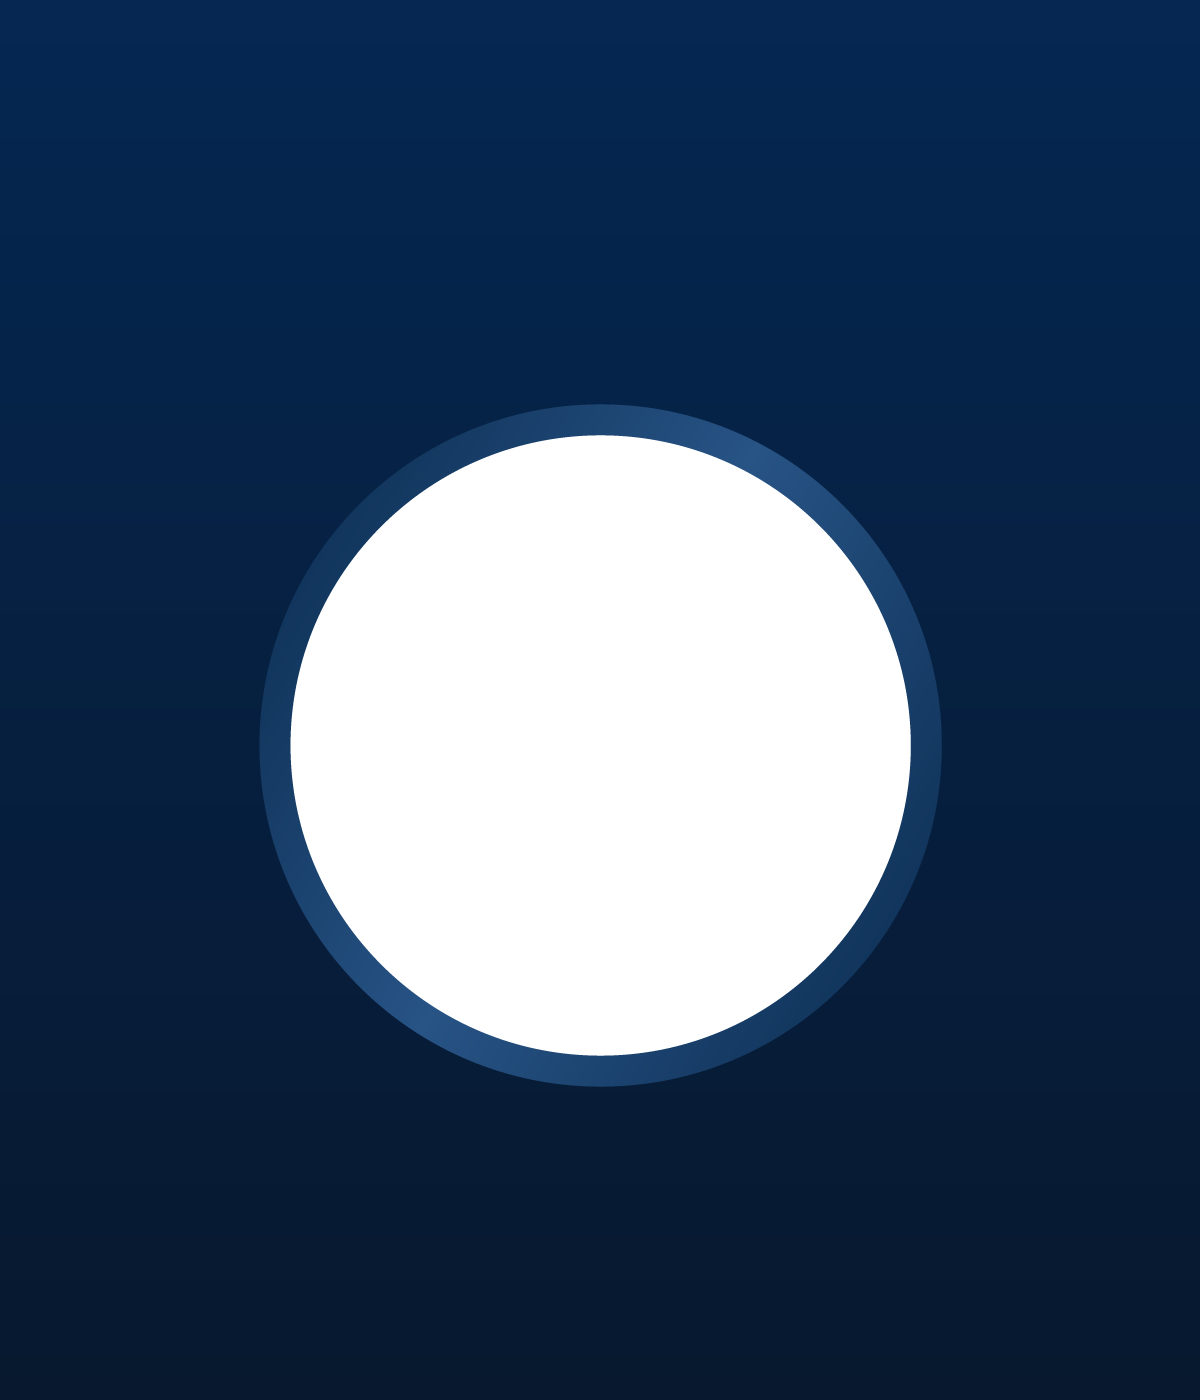
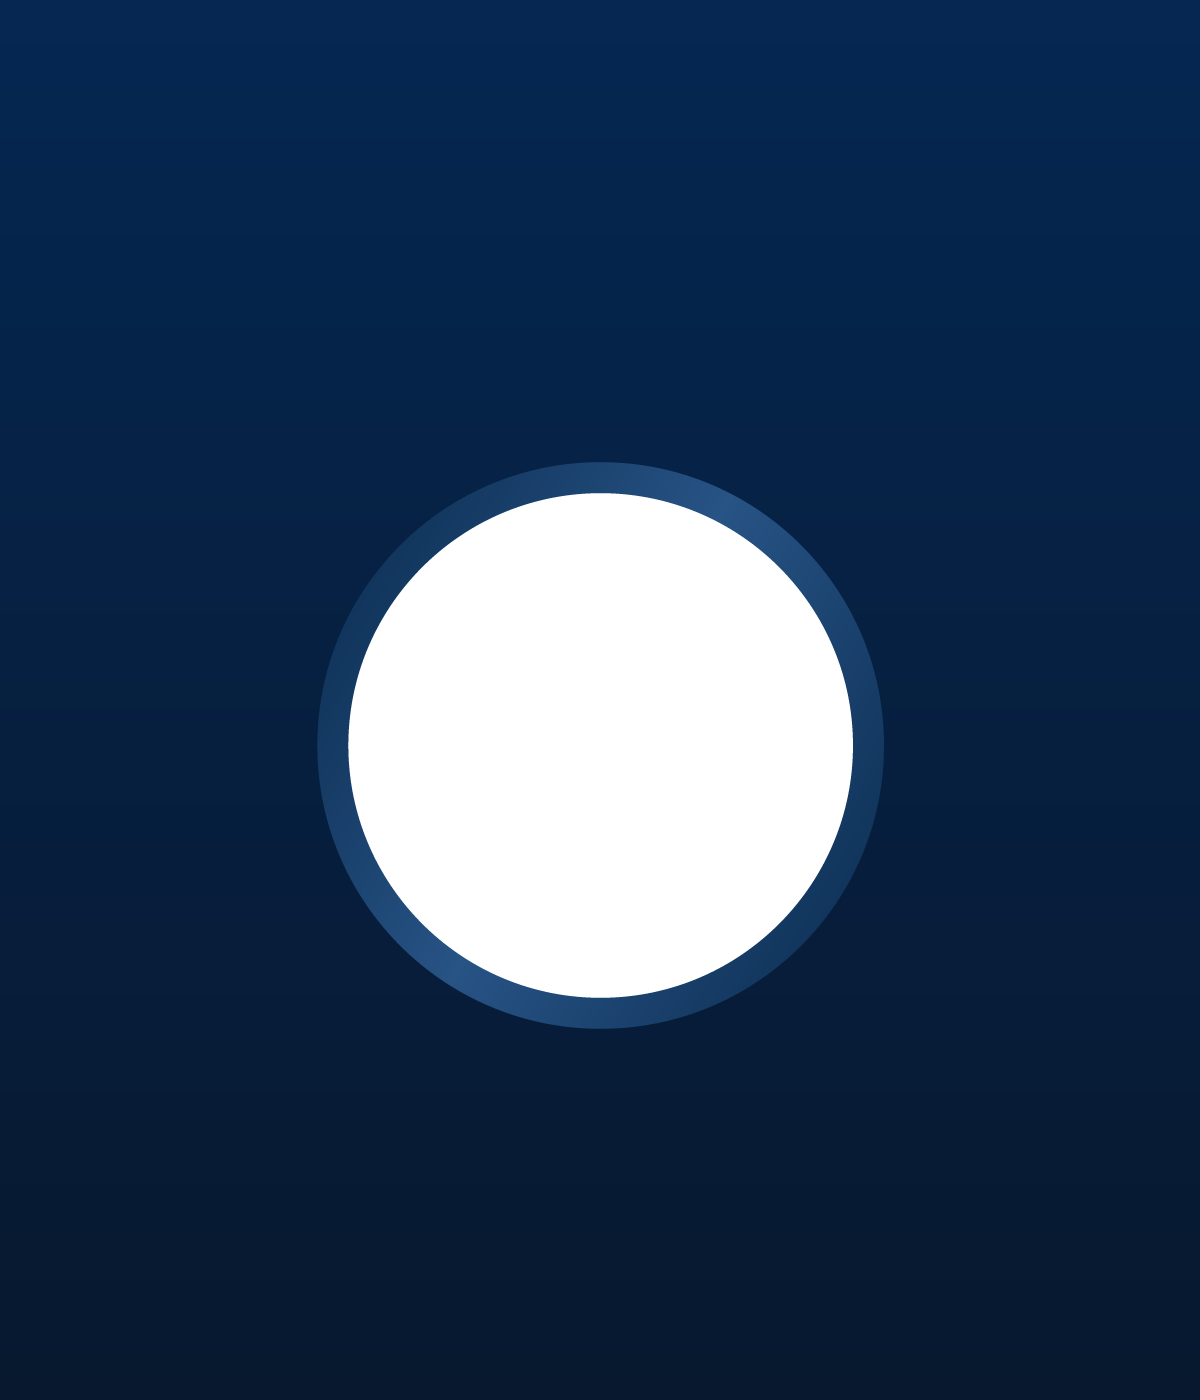
up

Changed region(s): [[0.2158, 0.2764, 0.8017, 0.7986]]

diff --git a/dolphin2.html b/dolphin2.html
@@ -56,7 +56,7 @@ p{font-size: 1.5rem;line-height: 1.8rem;margin-bottom: 0.5rem;}
 .add.page img{animation: bubble 2s ease; animation-fill-mode: forwards;}
 .graph{z-index: 6;position: absolute;background-color: rgb(255,255,255,0.5);width: 80%;transform: translate(-50%, 0);}
 .graph img{width:100%;}
-#img1_1{right: 50%;bottom: 50%;height:100%;transform: translate(-50%,-50%);}
+#img1_1{left: 50%;top: 50%;height:100%;transform: translate(-50%,-50%);}
 #img1_3{right: -50%;bottom: -50%;width: 75%;transform: translate(50%,0%);}
 .add #img1_3{animation-delay: 1s;animation-name: img1;}
 @keyframes img1{
